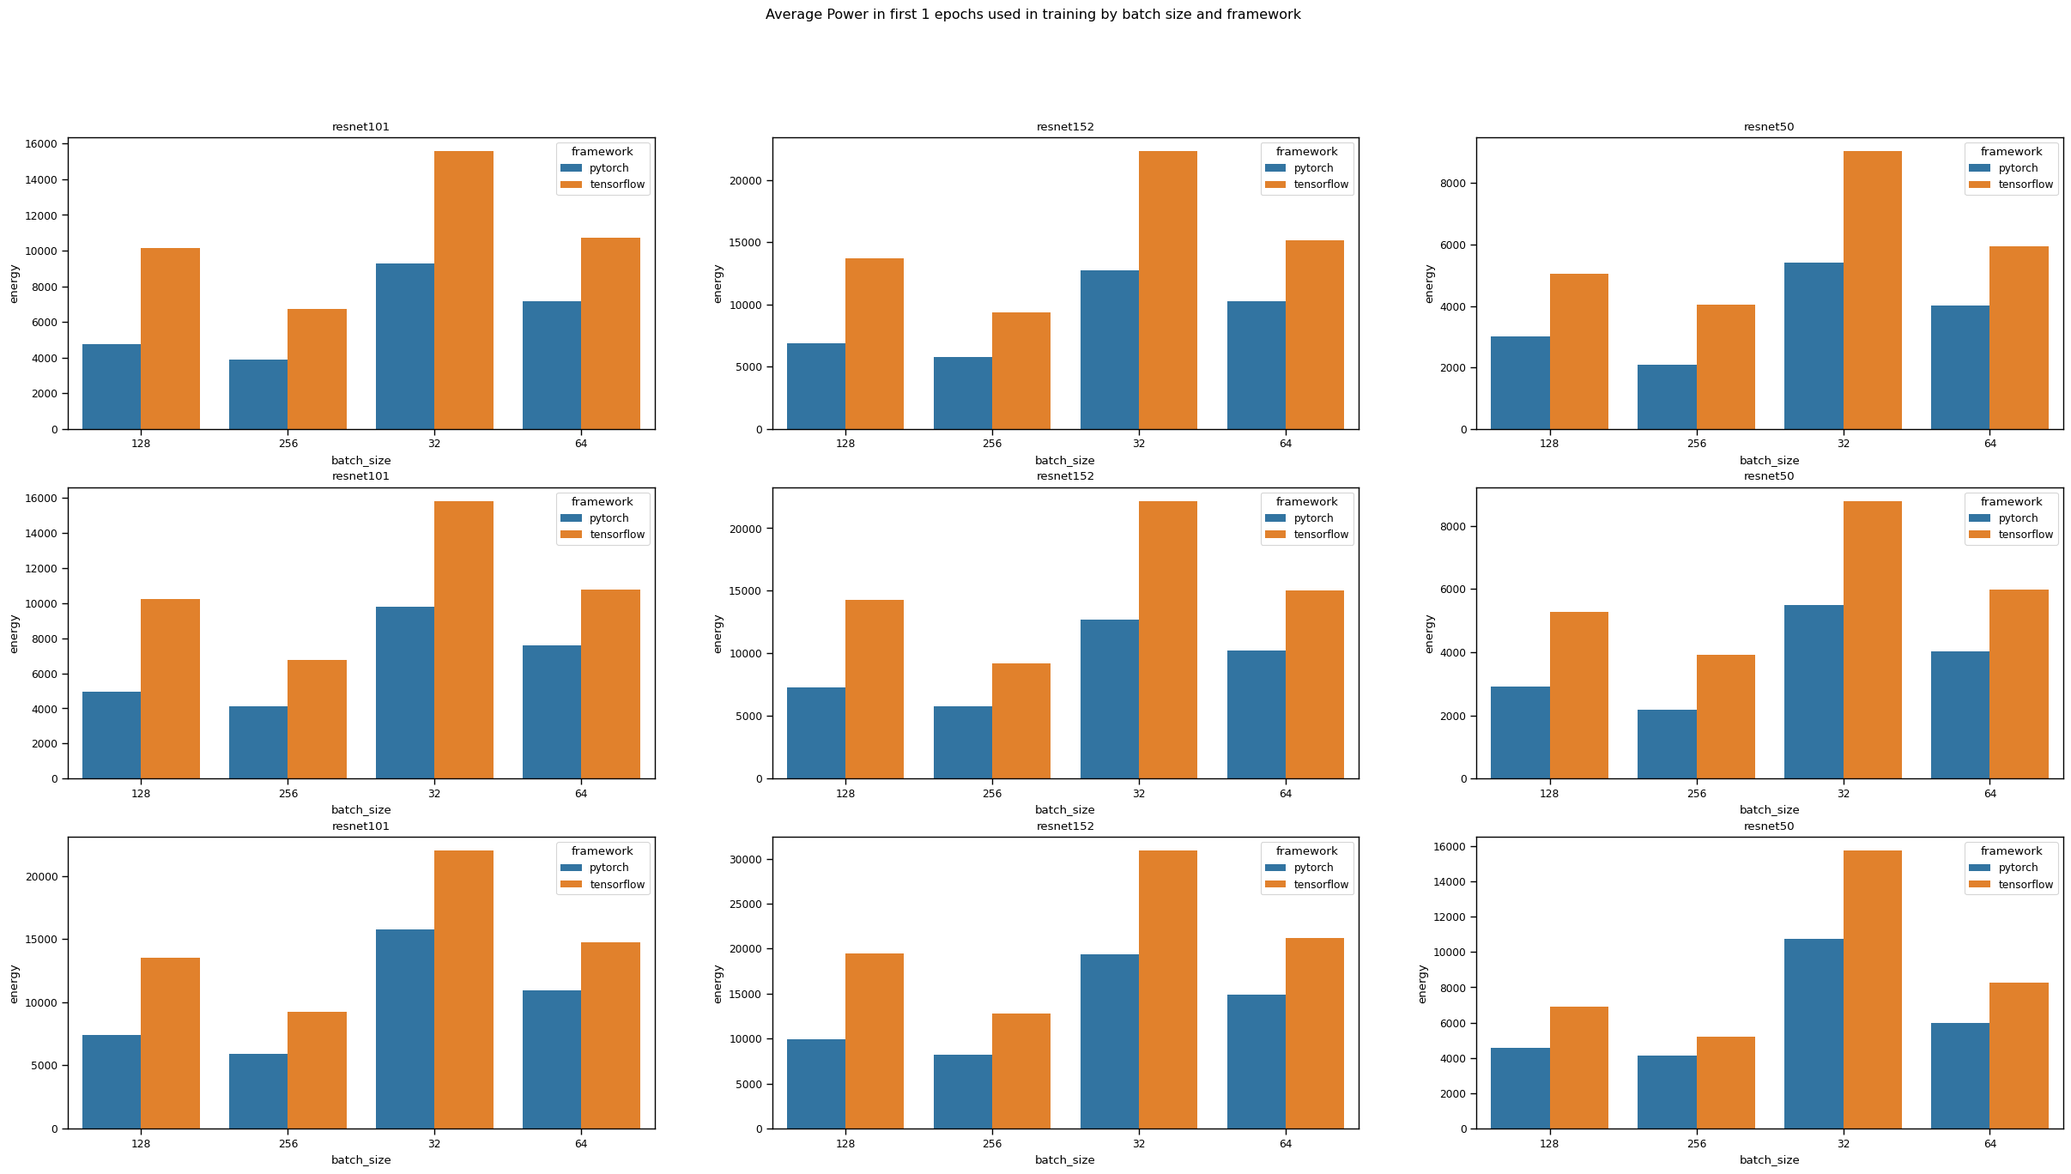
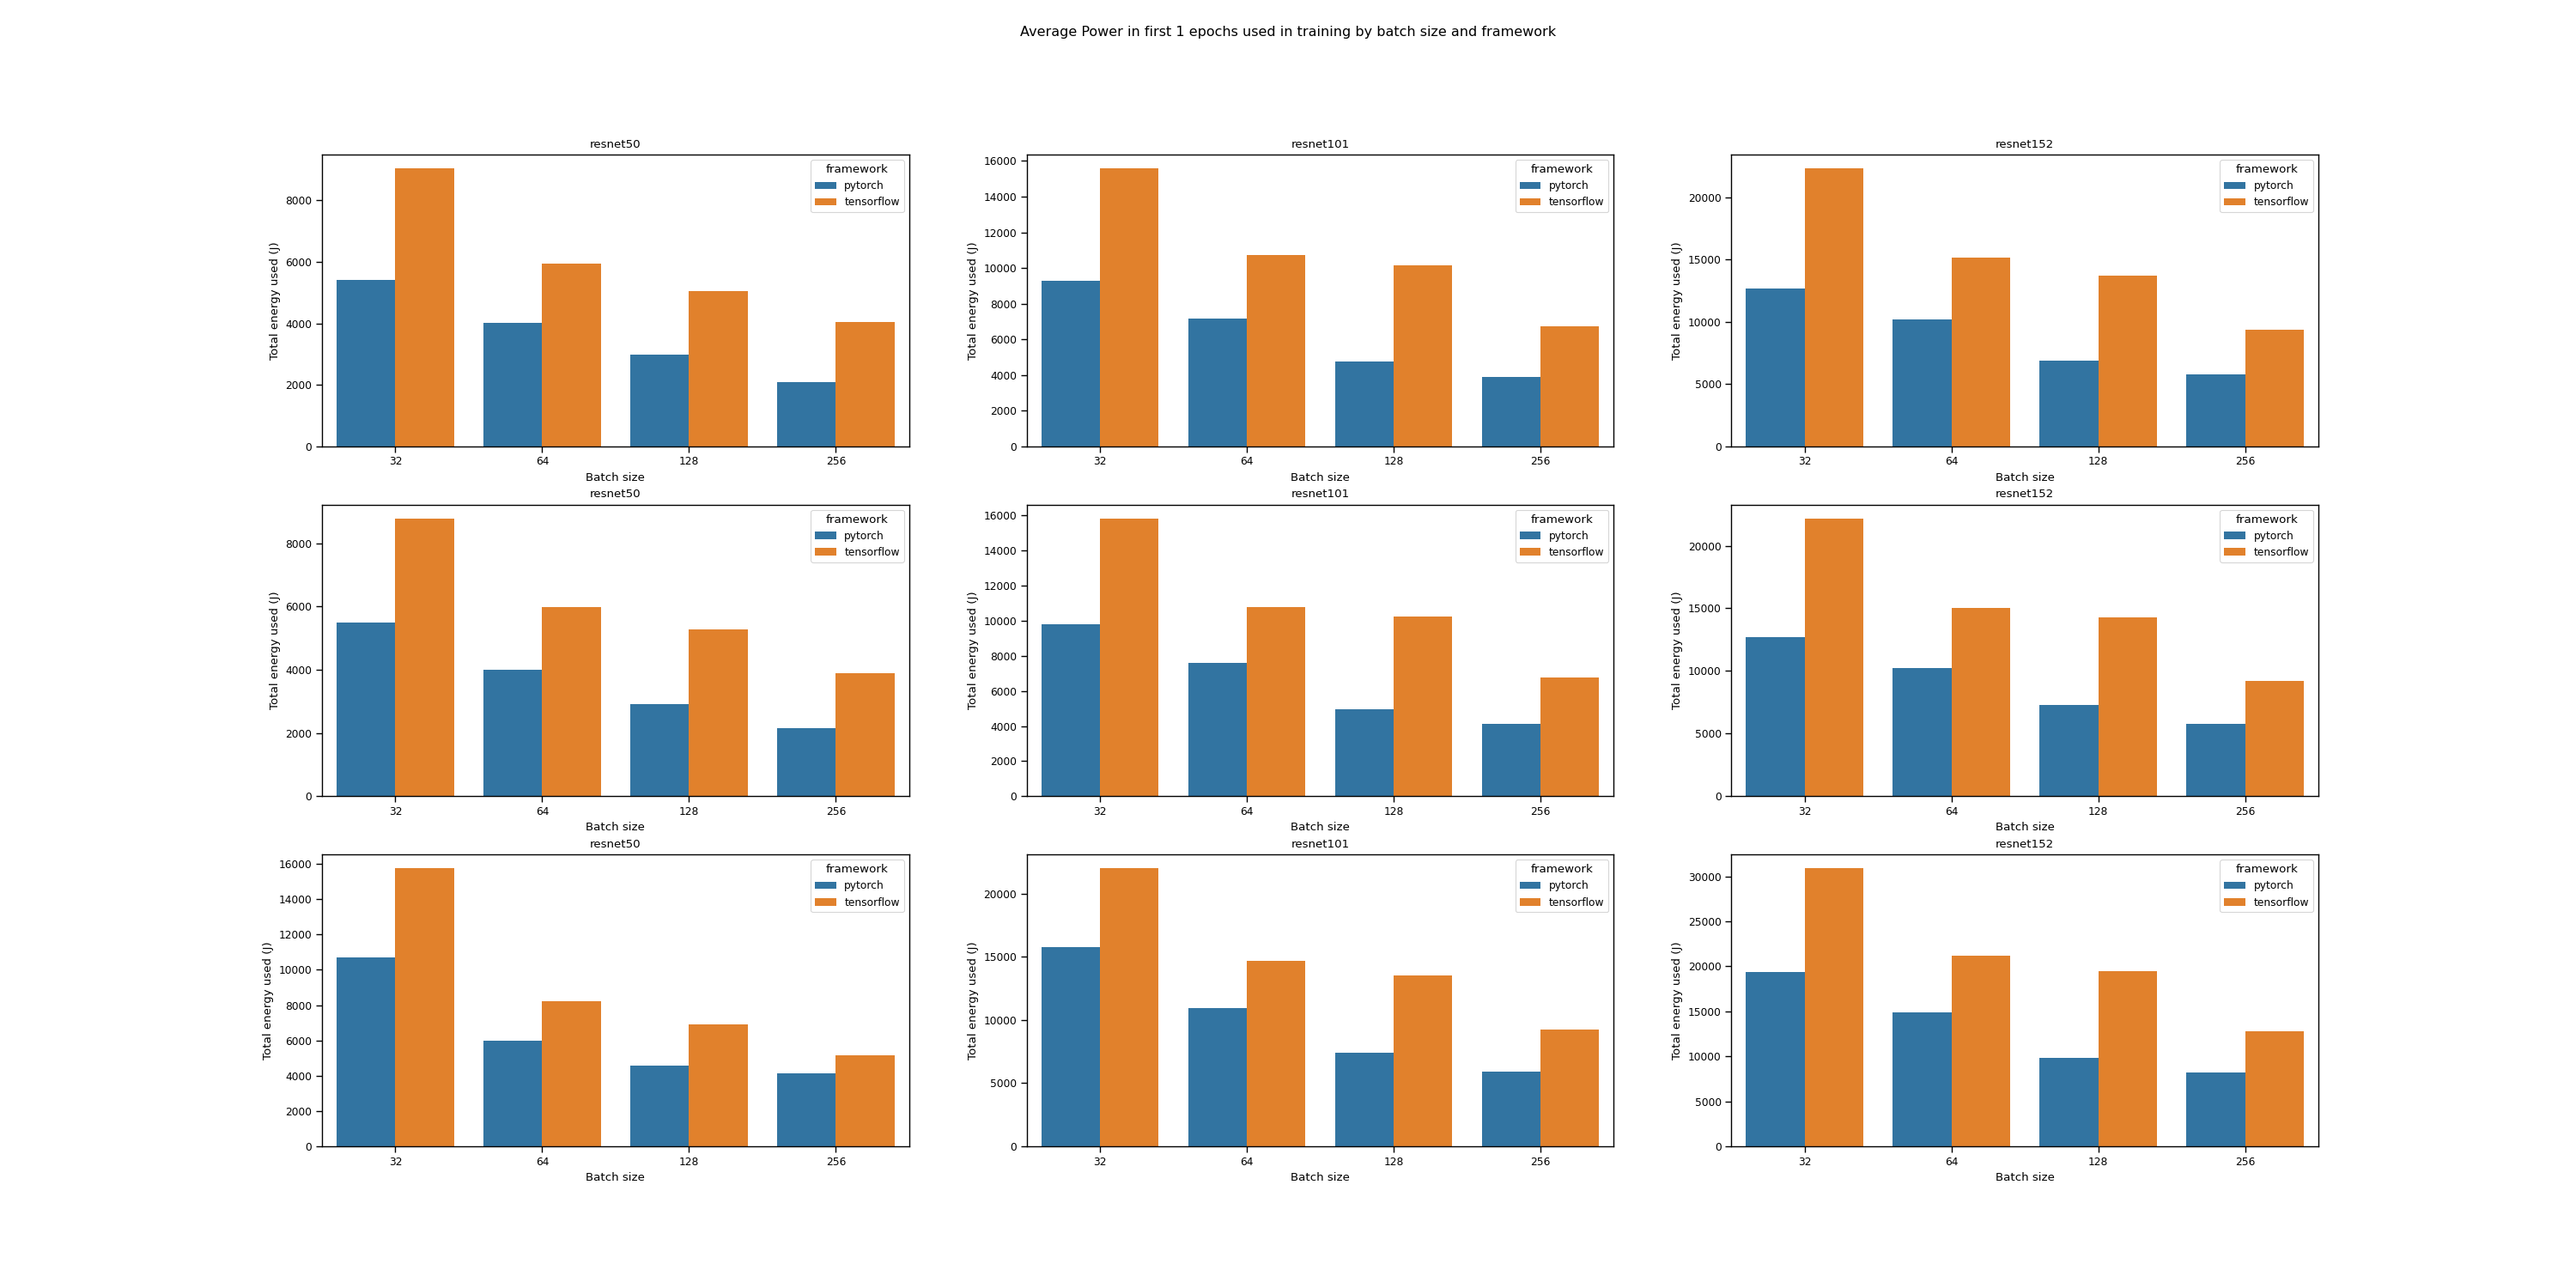
ordered axis values and column values

diff --git a/Project2/src/generate_plots.py b/Project2/src/generate_plots.py
@@ -23,6 +23,8 @@ from tqdm import tqdm
 import matplotlib.pyplot as plt
 import seaborn as sns
 
+import warnings
+warnings.filterwarnings("ignore")
 
 sns.set_context('paper')
 
@@ -145,13 +147,30 @@ def plot_3x3(data, filename,  suptitle="",  y_var = 'energy', x_var = 'batch_siz
                 ): 
     '''
     Plots a 3x3 suplots, with barplots split by "var_split", and "x_var" and "y_var".
-    
+
     Input data from either get_total_energy_data or get_avg_data utputs
     '''
+    
+    labels_dict = {
+        "power": "Power consumption (W)",
+        "temp": "Temperature (ºC)",
+        "mem_used": "Memory used (Mib)",
+        "gpu_util": "GPU utilization (in %)",
+        "mem_util": "Memory utilization (in %)",
+        "energy": "Total energy used (J)",
+        "batch_size": "Batch size"
+  
+    }
+    
     fig, axes = plt.subplots(3, 3, figsize=(30, 15))
     
-    column_values = data[columns_var].unique()
-    row_values = data[rows_var].unique()
+    # get possible column and row values and order them
+    if columns_var == 'model':
+        column_values = sorted(data[columns_var].unique(), key=lambda x: int(x.split('net')[-1]))
+    else:
+        column_values = data[columns_var].unique()
+        
+    row_values = sorted(data[rows_var].unique())
     
     for i, dataset in enumerate(row_values):
         
@@ -160,14 +179,18 @@ def plot_3x3(data, filename,  suptitle="",  y_var = 'energy', x_var = 'batch_siz
         for j, col_value in enumerate(column_values):
             
             data_column  = data_row[data_row["model"] == col_value]
+            
+            if x_var == 'batch_size':
+                data_column[x_var] = data_column[x_var].astype(int)
+                data_column = data_column.sort_values(by=x_var, ascending=True)
 
             axes[i,j] = sns.barplot(x = x_var, y=y_var, hue = split_var, data = data_column, ax=axes[i,j])
-            # axes[i,j].set_xlabel('Batch size')
-            # axes[i,j].set_ylabel(ylabel)
+            axes[i,j].set_xlabel(labels_dict[x_var])
+            axes[i,j].set_ylabel(labels_dict[y_var])
             axes[i,j].set_title(col_value)
             
         fig.suptitle(suptitle)
-        fig.savefig(os.path.join(PROJECT2_PATH, 'plots', filename),  bbox_inches='tight' )
+        fig.savefig(os.path.join(PROJECT2_PATH, 'plots', filename))
 
 
 def main(args):
